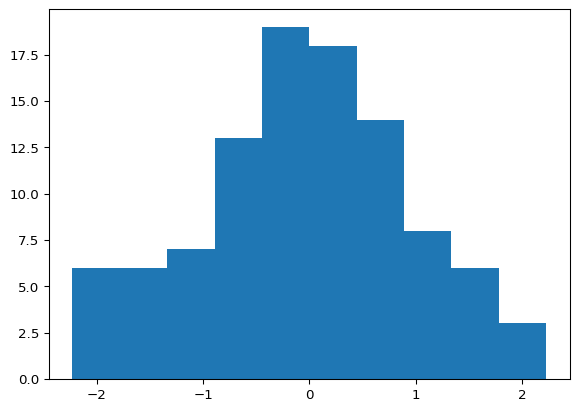
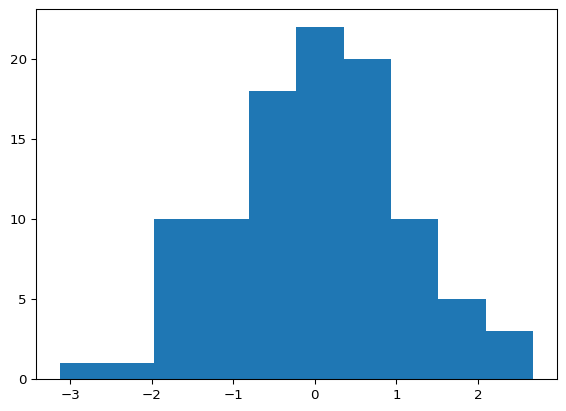
Built site for gh-pages

diff --git a/units/unit1.html b/units/unit1.html
@@ -193,7 +193,7 @@ $$
 <p>This is an example of using qmd as the source document.</p>
 <section id="evaluated-python-code-chunk-with-a-plot" class="level2">
 <h2 class="anchored" data-anchor-id="evaluated-python-code-chunk-with-a-plot">Evaluated Python code chunk, with a plot</h2>
-<div id="894646f9" class="cell" data-execution_count="1">
+<div id="b5766e0d" class="cell" data-execution_count="1">
 <details open="" class="code-fold">
 <summary>Code</summary>
 <div class="sourceCode cell-code" id="cb1"><pre class="sourceCode python code-with-copy"><code class="sourceCode python"><span id="cb1-1"><a href="#cb1-1" aria-hidden="true" tabindex="-1"></a><span class="im">import</span> numpy <span class="im">as</span> np</span>
@@ -211,7 +211,7 @@ $$
 </div>
 </div>
 <div class="cell-output cell-output-display" data-execution_count="1">
-<pre><code>np.float64(0.012993179784970792)</code></pre>
+<pre><code>np.float64(0.04682478739850791)</code></pre>
 </div>
 </div>
 </section>
@@ -273,7 +273,7 @@ Tip with Title
 </div>
 <div id="tabset-1-2" class="tab-pane" role="tabpanel" aria-labelledby="tabset-1-2-tab">
 <p>This code is executed.</p>
-<div id="ac78eadd" class="cell" data-execution_count="2">
+<div id="ce895dff" class="cell" data-execution_count="2">
 <details open="" class="code-fold">
 <summary>Code</summary>
 <div class="sourceCode cell-code" id="cb4"><pre class="sourceCode python code-with-copy"><code class="sourceCode python"><span id="cb4-1"><a href="#cb4-1" aria-hidden="true" tabindex="-1"></a><span class="kw">def</span> fizz_buzz(num):</span>

diff --git a/resume.html b/resume.html
@@ -324,7 +324,7 @@ ul.task-list li input[type="checkbox"] {
 August 2023 – May 2025 | Berkeley, CA
 </p>
 <ul>
-<li><strong><a href="handwritten-notes.qmd">Relevant Coursework</a>:</strong> CS 61A: Structure &amp; Interpretation of Computer Programs, CS 61B: Data Structures &amp; Algorithms, DATA 100: Principles &amp; Techniques of Data Science, STAT 133: Concepts in Computing with Data, STAT 151A: Linear Modelling (Theory &amp; Applications), STAT 154: Modern Statistical Prediction &amp; Machine Learning, STAT 165: Forecasting, UGBA 102: Financial Accounting, UGBA 104: Business Analytics.</li>
+<li><strong><a href="./berkeley-coursework.html">Relevant Coursework</a>:</strong> CS 61A: Structure &amp; Interpretation of Computer Programs, CS 61B: Data Structures &amp; Algorithms, DATA 100: Principles &amp; Techniques of Data Science, STAT 133: Concepts in Computing with Data, STAT 151A: Linear Modelling (Theory &amp; Applications), STAT 154: Modern Statistical Prediction &amp; Machine Learning, STAT 165: Forecasting, UGBA 102: Financial Accounting, UGBA 104: Business Analytics.</li>
 </ul>
 </section>
 </section>

diff --git a/units/unit3.html b/units/unit3.html
@@ -190,7 +190,7 @@ $$
 <p>This is an example of using qmd as the source document with pdf as one target. I’ve taken out the qmd stuff that doesn’t seem to render to pdf.</p>
 <section id="evaluated-python-code-chunk-with-a-plot" class="level2">
 <h2 class="anchored" data-anchor-id="evaluated-python-code-chunk-with-a-plot">Evaluated Python code chunk, with a plot</h2>
-<div id="63d63c45" class="cell" data-execution_count="1">
+<div id="fa868fdd" class="cell" data-execution_count="1">
 <details open="" class="code-fold">
 <summary>Code</summary>
 <div class="sourceCode cell-code" id="cb1"><pre class="sourceCode python code-with-copy"><code class="sourceCode python"><span id="cb1-1"><a href="#cb1-1" aria-hidden="true" tabindex="-1"></a><span class="im">import</span> numpy <span class="im">as</span> np</span>
@@ -208,7 +208,7 @@ $$
 </div>
 </div>
 <div class="cell-output cell-output-display" data-execution_count="1">
-<pre><code>np.float64(-0.03796489493681029)</code></pre>
+<pre><code>np.float64(0.03135614757880496)</code></pre>
 </div>
 </div>
 </section>
